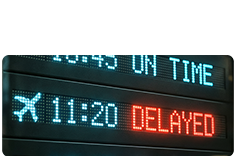
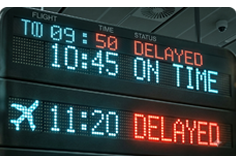
260831_mo_보험new1

diff --git a/alphaseat/alpha_mo/service_insur.html b/alphaseat/alpha_mo/service_insur.html
@@ -231,16 +231,16 @@
 				<div class="ai-analysis_ins-imgroll" id="aiAnalysisImgRoll">
 					<div class="ai-analysis_ins-imgroll-viewport" id="aiAnalysisImgRollTrack">
 						<div class="ai-analysis_ins-img-slide is-active">
-							<img class="ai-analysis_ins-img" src="./resource/img/common/insure_img01.png" alt="">
+							<img class="ai-analysis_ins-img" src="./resource/img/common/insure_img14.png" alt="">
 						</div>
 						<div class="ai-analysis_ins-img-slide">
-							<img class="ai-analysis_ins-img" src="./resource/img/common/insure_img02.png" alt="">
+							<img class="ai-analysis_ins-img" src="./resource/img/common/insure_img15.png" alt="">
 						</div>
 						<div class="ai-analysis_ins-img-slide">
-							<img class="ai-analysis_ins-img" src="./resource/img/common/insure_img03.png" alt="">
+							<img class="ai-analysis_ins-img" src="./resource/img/common/insure_img16.png" alt="">
 						</div>
 						<div class="ai-analysis_ins-img-slide">
-							<img class="ai-analysis_ins-img" src="./resource/img/common/insure_img04.png" alt="">
+							<img class="ai-analysis_ins-img" src="./resource/img/common/insure_img17.png" alt="">
 						</div>
 					</div>
 				</div>
@@ -336,7 +336,7 @@
 			<!-- 항목 리스트 -->
 			<div class="ins-terms_list" id="insTermsList">
 				<div class="ins-terms_item">
-				<button type="button" class="ins-terms_circle-btn" data-term-idx="0" aria-label="동의">
+				<button type="button" cla ss="ins-terms_circle-btn" data-term-idx="0" aria-label="동의">
 					<span class="ins-terms_circle" data-circle="0">
 					<svg width="10" height="10" viewBox="0 0 14 14" fill="none">
 						<path d="M2.5 7L5.5 10L11.5 4" stroke="#bbb" stroke-width="2" stroke-linecap="round" stroke-linejoin="round"/>

diff --git a/alphaseat/alpha_mo/resource/css/insur.css b/alphaseat/alpha_mo/resource/css/insur.css
@@ -3307,7 +3307,6 @@
     font-size: 11.5px;
     color: #ff6600;
 }
-
 /* ==========================================================================
    [추가] .insure_cont 로딩바 (service_insur_v1.html의 .ins-v1-loading 디자인을
    그대로 가져오되, 전체화면 고정(position:fixed)이 아닌 .insure_cont 영역 안에서만
